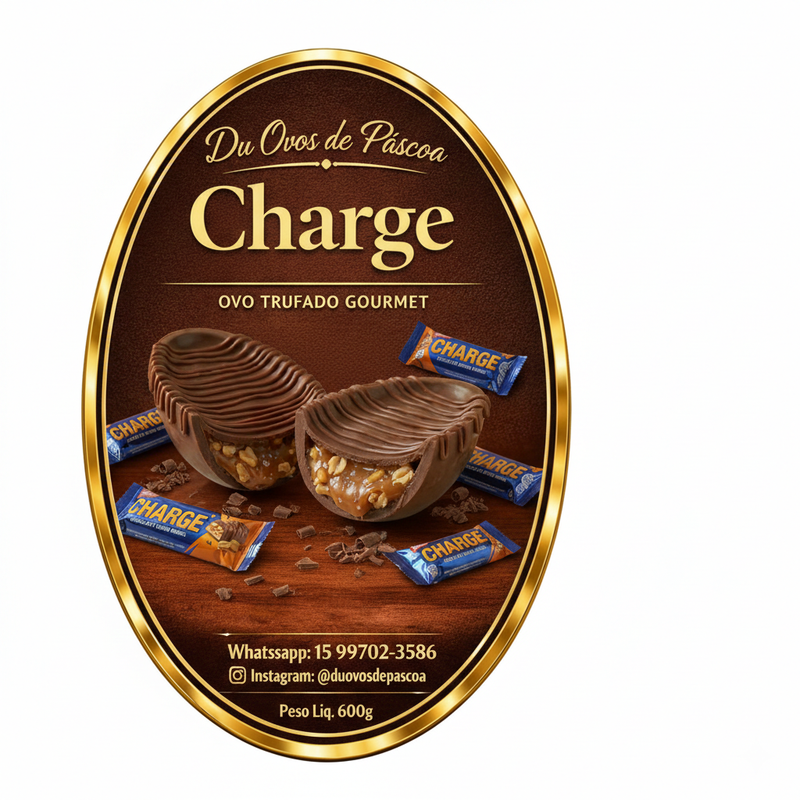
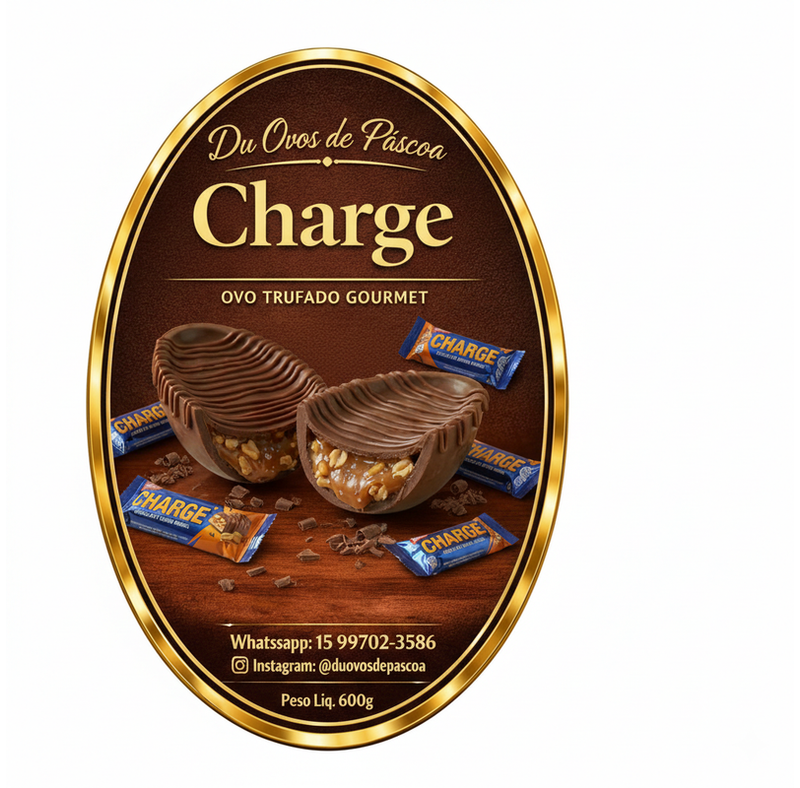
Force all images to 800x788 resolution

diff --git a/scripts/force_resize_all.ts b/scripts/force_resize_all.ts
@@ -1,0 +1,39 @@
+
+import sharp from "sharp";
+import path from "path";
+import fs from "fs";
+
+const DIR = path.join(process.cwd(), "client/public/products");
+const TARGET_WIDTH = 800;
+const TARGET_HEIGHT = 788;
+
+async function forceResizeAll() {
+    console.log(`Force resizing ALL images in ${DIR} to ${TARGET_WIDTH}x${TARGET_HEIGHT}...`);
+
+    const files = fs.readdirSync(DIR).filter(f => f.match(/\.(png|jpg|jpeg)$/i));
+
+    for (const file of files) {
+        const filePath = path.join(DIR, file);
+        const tempPath = path.join(DIR, `temp_${file}`);
+
+        try {
+            // Use 'contain' to ensure exact dimensions without cropping or stretching
+            // Background is transparent for PNGs, black (default) for JPEGs usually, but we can set it.
+            // Since most are PNGs with likely transparent backgrounds, we want transparent fill.
+            await sharp(filePath)
+                .resize(TARGET_WIDTH, TARGET_HEIGHT, {
+                    fit: 'contain',
+                    background: { r: 0, g: 0, b: 0, alpha: 0 } // Transparent background
+                })
+                .toFile(tempPath);
+
+            fs.renameSync(tempPath, filePath);
+            console.log(`${file}: SUCCESS`);
+        } catch (e) {
+            console.error(`${file}: FAILED`, e);
+            if (fs.existsSync(tempPath)) fs.unlinkSync(tempPath);
+        }
+    }
+}
+
+forceResizeAll().catch(console.error);
